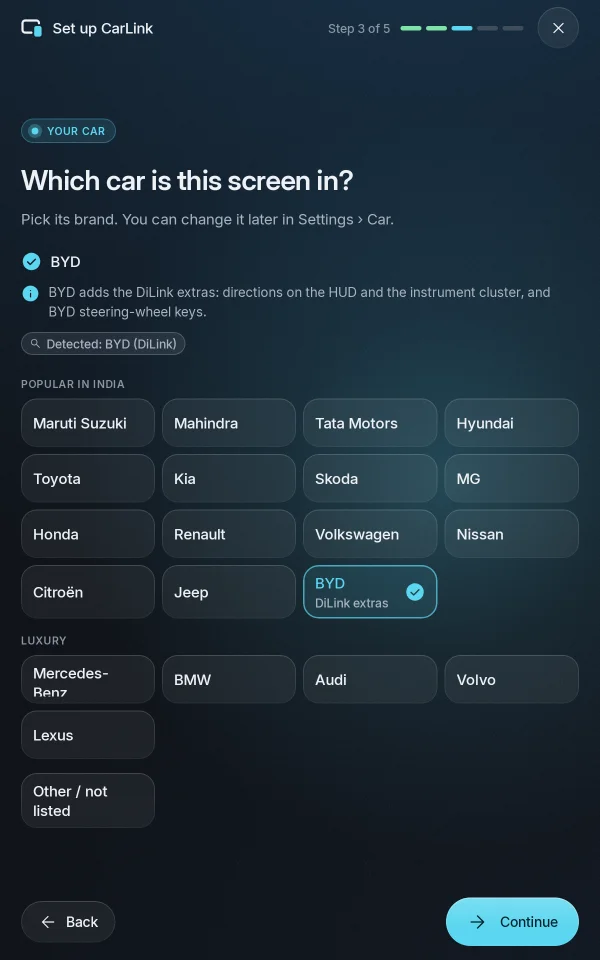
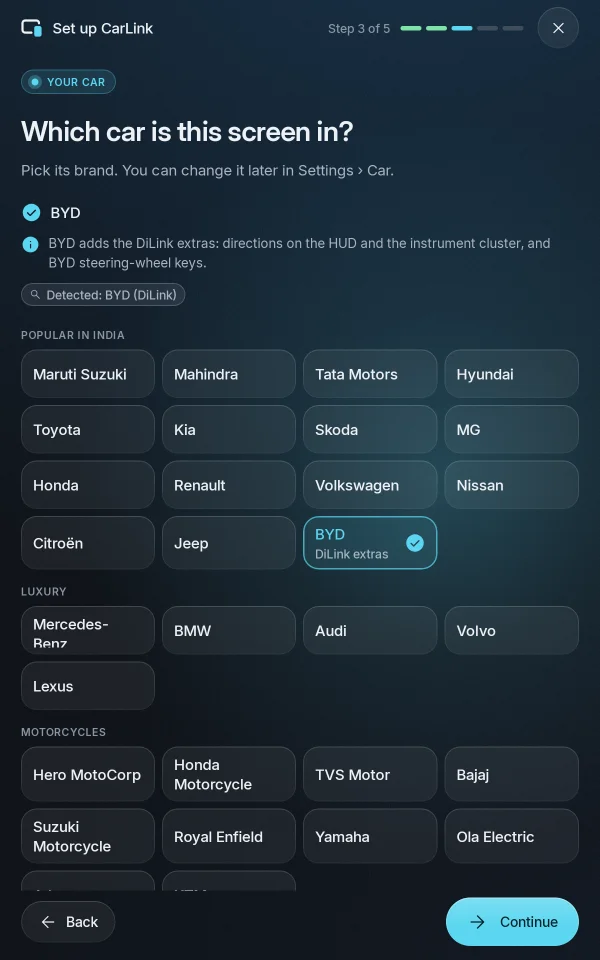
Add Indian two-wheeler makes to the brand picker
Fixes #1

diff --git a/carlink-core/src/main/java/com/carlink/core/settings/CarBrand.kt b/carlink-core/src/main/java/com/carlink/core/settings/CarBrand.kt
@@ -21,7 +21,8 @@ import android.content.SharedPreferences
  * of 72,665 units splits the combined Skoda-Volkswagen entry, leaving Volkswagen about 35,600,
  * just behind Renault's 36,420), then the smaller makes, then the luxury makes, then [OTHER].
  */
-enum class CarBrand(val displayName: String, val profile: VehicleProfile = VehicleProfile.GENERIC, val luxury: Boolean = false) {
+enum class CarBrand(val displayName: String, val profile: VehicleProfile = VehicleProfile.GENERIC, val luxury: Boolean = false,
+                    val motorcycle: Boolean = false) {
     MARUTI_SUZUKI("Maruti Suzuki"),
     MAHINDRA("Mahindra"),
     TATA("Tata Motors"),
@@ -42,6 +43,18 @@ enum class CarBrand(val displayName: String, val profile: VehicleProfile = Vehic
     AUDI("Audi", luxury = true),
     VOLVO("Volvo", luxury = true),
     LEXUS("Lexus", luxury = true),
+
+    // Two-wheelers sold in India (issue #1). Like every make but BYD they only label the vehicle.
+    HERO("Hero MotoCorp", motorcycle = true),
+    HONDA_MOTORCYCLE("Honda Motorcycle", motorcycle = true),
+    TVS("TVS Motor", motorcycle = true),
+    BAJAJ("Bajaj", motorcycle = true),
+    SUZUKI_MOTORCYCLE("Suzuki Motorcycle", motorcycle = true),
+    ROYAL_ENFIELD("Royal Enfield", motorcycle = true),
+    YAMAHA("Yamaha", motorcycle = true),
+    OLA_ELECTRIC("Ola Electric", motorcycle = true),
+    ATHER("Ather", motorcycle = true),
+    KTM("KTM", motorcycle = true),
 
     /** A make that is not listed. Behaves as [VehicleProfile.GENERIC]. */
     OTHER("Other"),

diff --git a/app/src/main/java/com/carlink/app/ui/settings/SettingsSheets.kt b/app/src/main/java/com/carlink/app/ui/settings/SettingsSheets.kt
@@ -249,7 +249,10 @@ internal fun SettingsSheetHost(key: String?, ui: SettingsUi, actions: SettingsAc
 internal fun CarBrandPicker(selected: CarBrand?, detected: CarBrand?, onSelect: (CarBrand) -> Unit, note: Boolean = true) {
     val dimens = CarLinkTokens.dimens
     val current = brandInEffect(selected, detected)
-    val (luxury, popular) = CarBrand.entries.filter { it != CarBrand.OTHER }.partition { it.luxury }
+    val listed = CarBrand.entries.filter { it != CarBrand.OTHER }
+    val popular = listed.filter { !it.luxury && !it.motorcycle }
+    val luxury = listed.filter { it.luxury }
+    val motorcycles = listed.filter { it.motorcycle }
     Column(Modifier.selectableGroup()) {
         com.carlink.app.ui.premium.Eyebrow(stringResource(R.string.carlink_settings_car_popular))
         Spacer(Modifier.height(dimens.targetGap))
@@ -258,6 +261,10 @@ internal fun CarBrandPicker(selected: CarBrand?, detected: CarBrand?, onSelect: 
         com.carlink.app.ui.premium.Eyebrow(stringResource(R.string.carlink_settings_car_luxury))
         Spacer(Modifier.height(dimens.targetGap))
         BrandGrid(luxury, current, onSelect)
+        Spacer(Modifier.height(dimens.gutter))
+        com.carlink.app.ui.premium.Eyebrow(stringResource(R.string.carlink_settings_car_motorcycles))
+        Spacer(Modifier.height(dimens.targetGap))
+        BrandGrid(motorcycles, current, onSelect)
         Spacer(Modifier.height(dimens.targetGap * 2))
         BrandGrid(listOf(CarBrand.OTHER), current, onSelect)
     }

diff --git a/carlink-core/src/test/java/com/carlink/core/settings/CarBrandTest.kt b/carlink-core/src/test/java/com/carlink/core/settings/CarBrandTest.kt
@@ -32,7 +32,9 @@ class CarBrandTest {
         assertEquals(CarBrand.MARUTI_SUZUKI, all.first())
         assertEquals(CarBrand.OTHER, all.last())
         val firstLuxury = all.indexOfFirst { it.luxury }
-        assertTrue(all.drop(firstLuxury).dropLast(1).all { it.luxury })
+        val firstMotorcycle = all.indexOfFirst { it.motorcycle }
+        assertTrue(all.subList(firstLuxury, firstMotorcycle).all { it.luxury })
+        assertTrue(all.drop(firstMotorcycle).dropLast(1).all { it.motorcycle })
         assertTrue(all.indexOf(CarBrand.BYD) < firstLuxury)
     }
 
